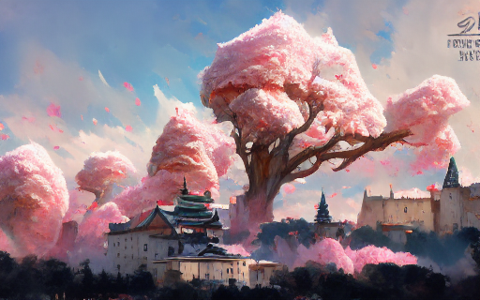
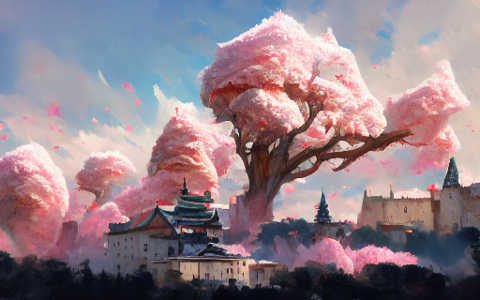
removed signature more text fixes

Changed region(s): [[0.875, 0.03, 1.0, 0.27], [0.0625, 0.96, 0.3125, 1.0], [0.5938, 0.99, 0.6562, 1.0]]

diff --git a/jars/src/illustratedEntities/dialogue/impl/TextChangerPanel.java b/jars/src/illustratedEntities/dialogue/impl/TextChangerPanel.java
@@ -95,6 +95,7 @@ public class TextChangerPanel {
         VisualCustomPanel.getPlugin().addButton(entry);
         selectionPanel.addUIElement(anchor).inTL(spad, opad);
         lastUsedAnchor = anchor;
+        TooltipMakerAPI firstAnchor = anchor;
 
         buttonId = "clear";
         bgColour = new Color(200, 160, 10, 255);
@@ -110,7 +111,7 @@ public class TextChangerPanel {
         };
 
         VisualCustomPanel.getPlugin().addButton(entry);
-        selectionPanel.addUIElement(anchor).inTL(spad, opad);
+        selectionPanel.addUIElement(anchor).rightOfMid(lastUsedAnchor, opad);
         lastUsedAnchor = anchor;
 
         buttonId = "delete";
@@ -120,32 +121,12 @@ public class TextChangerPanel {
         entry = new InteractionDialogCustomPanelPlugin.ButtonEntry(button, buttonId) {
             @Override
             public void onToggle() {
-                //reset to what it was when the panel was first opened
-                Global.getSector().getCampaignUI().showConfirmDialog(
-                        "Are you sure? This will clear the description and cannot be undone.",
-                        "Confirm",
-                        "Return",
-                        new Script() {
-                            @Override
-                            public void run() {
-                                boolean success = TextHandler.deleteDescription(dialogue.getInteractionTarget());
-
-                                if(success){
-                                    Global.getSector().getMemoryWithoutUpdate().set(CLEAR, true, 0f);
-                                    dialogue.getTextPanel().addPara("Description deleted.", Misc.getHighlightColor());
-                                } else  dialogue.getTextPanel().addPara("There is no description to delete!", Misc.getHighlightColor());
-
-                                new TextChangerPanel().showPanel(dialogue);
-                            }
-                        },
-                        null);
-                Global.getSector().getMemoryWithoutUpdate().set(CLEAR, true, 0f);
-                new TextChangerPanel().showPanel(dialogue);
+                new ConfirmDialoguePanel().showPanel(dialogue);
             }
         };
 
         VisualCustomPanel.getPlugin().addButton(entry);
-        selectionPanel.addUIElement(anchor).inTL(spad, opad);
+        selectionPanel.addUIElement(anchor).rightOfMid(lastUsedAnchor, opad);
         lastUsedAnchor = anchor;
 
         buttonId = "confirm";
@@ -189,22 +170,17 @@ public class TextChangerPanel {
 
         VisualCustomPanel.getPlugin().addButton(entry);
         selectionPanel.addUIElement(anchor).rightOfMid(lastUsedAnchor, opad);
-        TooltipMakerAPI lastMainPanelAnchor = anchor;
-
         TextDataEntry textDataEntry = TextHandler.getDataForEntity(dialogue.getInteractionTarget());
 
+        lastUsedAnchor = firstAnchor;
+
         for (int textNum = 1; textNum <= 2; textNum++) {
-
-            //create new panel
-            final CustomPanelAPI textFieldPanel = selectionPanel.createCustomPanel(PANEL_WIDTH_1, TEXT_FIELD_PANEL_HEIGHT, new FramedCustomPanelPlugin(0.1f, bgColour, false));
-            TooltipMakerAPI textFieldPanelAnchor = selectionPanel.createUIElement(PANEL_WIDTH_1, TEXT_FIELD_PANEL_HEIGHT, true);
-
-            anchor = textFieldPanel.createUIElement(PANEL_WIDTH_1, BUTTON_HEIGHT, false);
+            anchor = selectionPanel.createUIElement(PANEL_WIDTH_1, BUTTON_HEIGHT, false);
 
             String heading = textNum == 1 ? " [displayed on the planet]" : " [displayed when docking]";
 
             anchor.addSectionHeading("Description " + textNum + heading, Alignment.MID, 5f);
-            textFieldPanel.addUIElement(anchor).inTL(0f, 0f); //first in row
+            selectionPanel.addUIElement(anchor).belowLeft(lastUsedAnchor, 10f); //first in row
             lastUsedAnchor = anchor;
 
             Description description = null;
@@ -214,7 +190,7 @@ public class TextChangerPanel {
             if (description == null || (description.getText1().contains(illegalString) && description.getText3().contains(illegalString))) description = Global.getSettings().getDescription(dialogue.getInteractionTarget().getCustomDescriptionId(), Description.Type.CUSTOM);
 
             for (int lineNum = 1; lineNum <= Settings.LINE_AMT; lineNum++) { //1 to 10
-                anchor = textFieldPanel.createUIElement(PANEL_WIDTH_1, BUTTON_HEIGHT, false);
+                anchor = selectionPanel.createUIElement(PANEL_WIDTH_1, BUTTON_HEIGHT, false);
                 TextFieldAPI t1 = anchor.addTextField(PANEL_WIDTH_1 - 4f, BUTTON_HEIGHT, Fonts.DEFAULT_SMALL, 0f);
                 t1.setHandleCtrlV(true);
 
@@ -240,20 +216,16 @@ public class TextChangerPanel {
 
                         if (lineNum <= cleanedStringList.size()) t1.setText(cleanedStringList.get(lineNum - 1));
                     }
-                } else mem.unset(CLEAR);
+                }
 
                 mem.set(TEXTFIELD_KEY + textNum + lineNum, t1, 0f);
 
-                textFieldPanel.addUIElement(anchor).belowLeft(lastUsedAnchor, spad); //first in row
+                selectionPanel.addUIElement(anchor).belowLeft(lastUsedAnchor, spad); //first in row
                 lastUsedAnchor = anchor;
             }
-
-            textFieldPanelAnchor.addCustom(textFieldPanel, 0f);
-            selectionPanel.addUIElement(textFieldPanelAnchor).belowMid(lastMainPanelAnchor, 0f);
-            lastMainPanelAnchor = textFieldPanelAnchor;
         }
 
-
+        mem.unset(CLEAR);
         panelTooltip.addCustom(selectionPanel, 0f); //add panel
         VisualCustomPanel.addTooltipToPanel();
     }

diff --git a/jars/src/illustratedEntities/dialogue/impl/ConfirmDialoguePanel.java b/jars/src/illustratedEntities/dialogue/impl/ConfirmDialoguePanel.java
@@ -1,0 +1,103 @@
+package illustratedEntities.dialogue.impl;
+
+import com.fs.starfarer.api.Global;
+import com.fs.starfarer.api.campaign.InteractionDialogAPI;
+import com.fs.starfarer.api.campaign.rules.MemoryAPI;
+import com.fs.starfarer.api.ui.*;
+import com.fs.starfarer.api.util.Misc;
+import illustratedEntities.dialogue.panel.InteractionDialogCustomPanelPlugin;
+import illustratedEntities.dialogue.panel.NoFrameCustomPanelPlugin;
+import illustratedEntities.dialogue.panel.VisualCustomPanel;
+import illustratedEntities.helper.ImageTags;
+import illustratedEntities.helper.TextHandler;
+
+import java.awt.*;
+
+public class ConfirmDialoguePanel {
+
+    protected static final float PANEL_WIDTH_1 = 580;
+    protected static final float BUTTON_HEIGHT = 30;
+    protected static final float SELECT_BUTTON_WIDTH = 95f;
+    protected static final float TEXT_FIELD_PANEL_HEIGHT = 300f;
+
+    public static final String TEXTFIELD_KEY = "$Illent_textField_";
+    public static final String CLEAR = "$Illent_clearTextfields";
+
+    public void showPanel(InteractionDialogAPI dialogue) {
+        VisualCustomPanel.createPanel(dialogue, true);
+        showTextChangePanel(dialogue);
+    }
+
+    private void showTextChangePanel(final InteractionDialogAPI dialogue) {
+        float opad = 10f;
+        float spad = 3f;
+
+        final CustomPanelAPI panel = VisualCustomPanel.getPanel();
+        final TooltipMakerAPI panelTooltip = VisualCustomPanel.getTooltip();
+
+        Color baseColor = Misc.getButtonTextColor();
+        Color bgColour = Misc.getDarkPlayerColor();
+        Color brightColor = Misc.getBrightPlayerColor();
+
+        TooltipMakerAPI lastUsedAnchor;
+        TooltipMakerAPI anchor;
+        String buttonId;
+        ButtonAPI button;
+        InteractionDialogCustomPanelPlugin.ButtonEntry entry;
+
+        MemoryAPI mem = Global.getSector().getMemoryWithoutUpdate();
+
+        panelTooltip.addSectionHeading("Confirm Deletion", Alignment.MID, opad);
+
+        CustomPanelAPI selectionPanel = panel.createCustomPanel(PANEL_WIDTH_1, TEXT_FIELD_PANEL_HEIGHT, new NoFrameCustomPanelPlugin());
+
+        TooltipMakerAPI desc = selectionPanel.createUIElement(SELECT_BUTTON_WIDTH * 3, BUTTON_HEIGHT, false);
+        desc.addPara("Are you sure? You are about to delete the description of this planet. This cannot be undone.", opad);
+        selectionPanel.addUIElement(desc).inTL(spad, opad);
+        lastUsedAnchor = desc;
+
+        buttonId = "delete";
+        baseColor = Color.BLACK;
+        bgColour = new Color(160, 30, 20, 255);
+        anchor = selectionPanel.createUIElement(SELECT_BUTTON_WIDTH, BUTTON_HEIGHT, false);
+        button = anchor.addButton("Delete", buttonId, baseColor, bgColour, Alignment.MID, CutStyle.C2_MENU, SELECT_BUTTON_WIDTH, BUTTON_HEIGHT, 0);
+        entry = new InteractionDialogCustomPanelPlugin.ButtonEntry(button, buttonId) {
+            @Override
+            public void onToggle() {
+                boolean success = TextHandler.deleteDescription(dialogue.getInteractionTarget());
+
+                if(success){
+                    Global.getSector().getMemoryWithoutUpdate().set(CLEAR, true, 0f);
+                    dialogue.getTextPanel().addPara("Description deleted.", Misc.getHighlightColor());
+                } else  dialogue.getTextPanel().addPara("There is no description to delete!", Misc.getHighlightColor());
+
+                new TextChangerPanel().showPanel(dialogue);
+            }
+        };
+
+        VisualCustomPanel.getPlugin().addButton(entry);
+        selectionPanel.addUIElement(anchor).belowLeft(lastUsedAnchor, opad);
+        lastUsedAnchor = anchor;
+
+        buttonId = "return";
+        baseColor = Misc.getButtonTextColor();
+        bgColour = Misc.getDarkPlayerColor();
+        anchor = selectionPanel.createUIElement(SELECT_BUTTON_WIDTH, BUTTON_HEIGHT, false);
+        button = anchor.addButton("Return", buttonId, baseColor, bgColour, Alignment.MID, CutStyle.C2_MENU, SELECT_BUTTON_WIDTH, BUTTON_HEIGHT, 0);
+        entry = new InteractionDialogCustomPanelPlugin.ButtonEntry(button, buttonId) {
+            @Override
+            public void onToggle() {
+                //reset to what it was when the panel was first opened
+                Global.getSector().getMemoryWithoutUpdate().set(CLEAR, true, 0f);
+                new TextChangerPanel().showPanel(dialogue);
+            }
+        };
+
+        VisualCustomPanel.getPlugin().addButton(entry);
+        selectionPanel.addUIElement(anchor).rightOfMid(lastUsedAnchor, opad);
+        lastUsedAnchor = anchor;
+
+        panelTooltip.addCustom(selectionPanel, 0f); //add panel
+        VisualCustomPanel.addTooltipToPanel();
+    }
+}

diff --git a/jars/src/illustratedEntities/helper/WordUtils.java b/jars/src/illustratedEntities/helper/WordUtils.java
@@ -1,54 +1,14 @@
 package illustratedEntities.helper;
 
-
 import java.util.regex.Matcher;
 import java.util.regex.Pattern;
 
 public class WordUtils {
 
-    /**
-     * {@link WordUtils} instances should NOT be constructed in
-     * standard programming. Instead, the class should be used as
-     * {@code WordUtils.wrap("foo bar", 20);}.
-     *
-     * <p>This constructor is public to permit tools that require a JavaBean
-     * instance to operate.</p>
-     */
-    public WordUtils() {
-    }
-
-    /**
-     * Wraps a single line of text, identifying words by {@code ' '}.
-     *
-     * <p>New lines will be separated by the system property line separator.
-     * Very long words, such as URLs will <i>not</i> be wrapped.</p>
-     *
-     * <p>Leading spaces on a new line are stripped.
-     * Trailing spaces are not stripped.</p>
-     *
-     * (assuming that '\n' is the systems line separator)
-     *
-     * @param str  the String to be word wrapped, may be null
-     * @param wrapLength  the column to wrap the words at, less than 1 is treated as 1
-     * @return a line with newlines inserted, {@code null} if null input
-     */
     public static String wrap(final String str, final int wrapLength) {
         return wrap(str, wrapLength, null, false);
     }
 
-    /**
-     * Wraps a single line of text, identifying words by {@code ' '}.
-     *
-     * <p>Leading spaces on a new line are stripped.
-     * Trailing spaces are not stripped.</p>
-
-     * @param str  the String to be word wrapped, may be null
-     * @param wrapLength  the column to wrap the words at, less than 1 is treated as 1
-     * @param newLineStr  the string to insert for a new line,
-     *  {@code null} uses the system property line separator
-     * @param wrapLongWords  true if long words (such as URLs) should be wrapped
-     * @return a line with newlines inserted, {@code null} if null input
-     */
     public static String wrap(final String str, final int wrapLength, final String newLineStr, final boolean wrapLongWords) {
         return wrap(str, wrapLength, newLineStr, wrapLongWords, " ");
     }
@@ -66,20 +26,6 @@ public class WordUtils {
         return true;
     }
 
-    /**
-     * Wraps a single line of text, identifying words by {@code wrapOn}.
-     *
-     * <p>Leading spaces on a new line are stripped.
-     * Trailing spaces are not stripped.</p>
-     * @param str  the String to be word wrapped, may be null
-     * @param wrapLength  the column to wrap the words at, less than 1 is treated as 1
-     * @param newLineStr  the string to insert for a new line,
-     *  {@code null} uses the system property line separator
-     * @param wrapLongWords  true if long words (such as URLs) should be wrapped
-     * @param wrapOn regex expression to be used as a breakable characters,
-     *               if blank string is provided a space character will be used
-     * @return a line with newlines inserted, {@code null} if null input
-     */
     public static String wrap(final String str, int wrapLength, String newLineStr, final boolean wrapLongWords, String wrapOn) {
         if (str == null) {
             return null;
